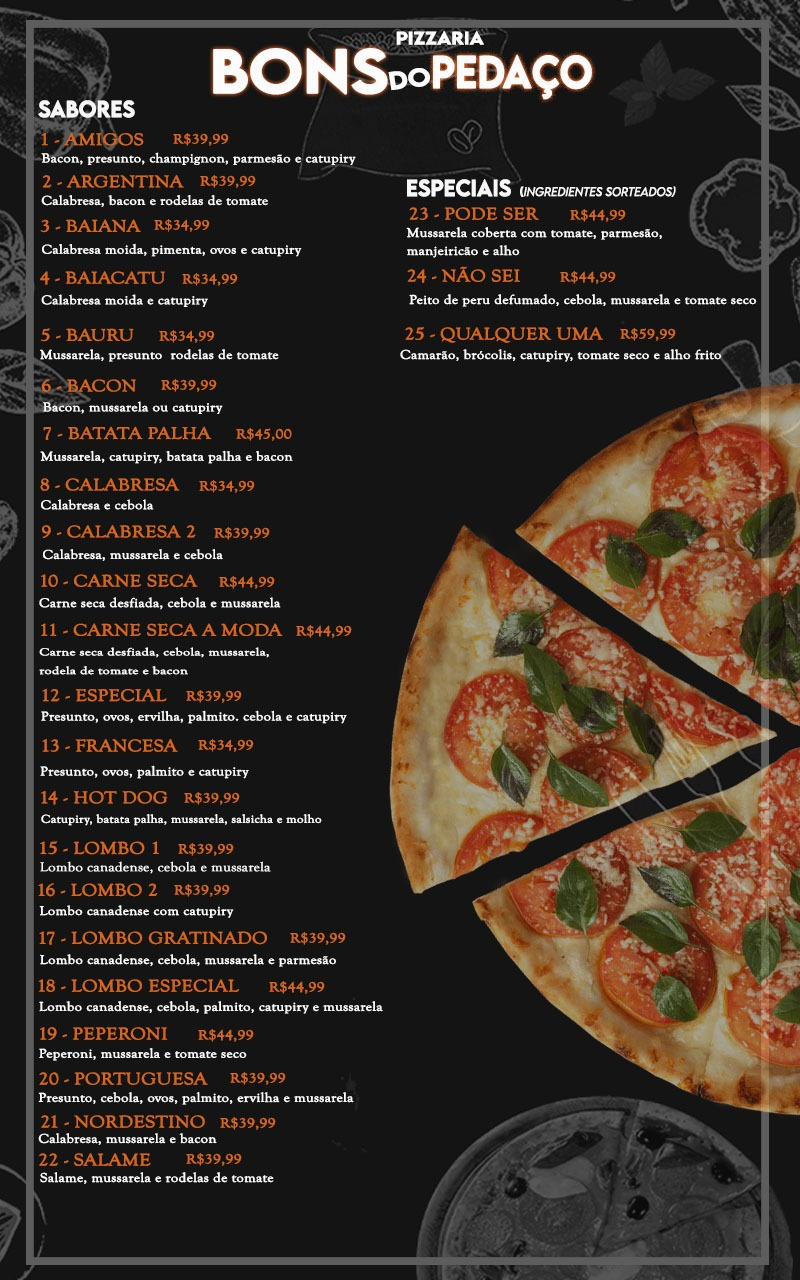
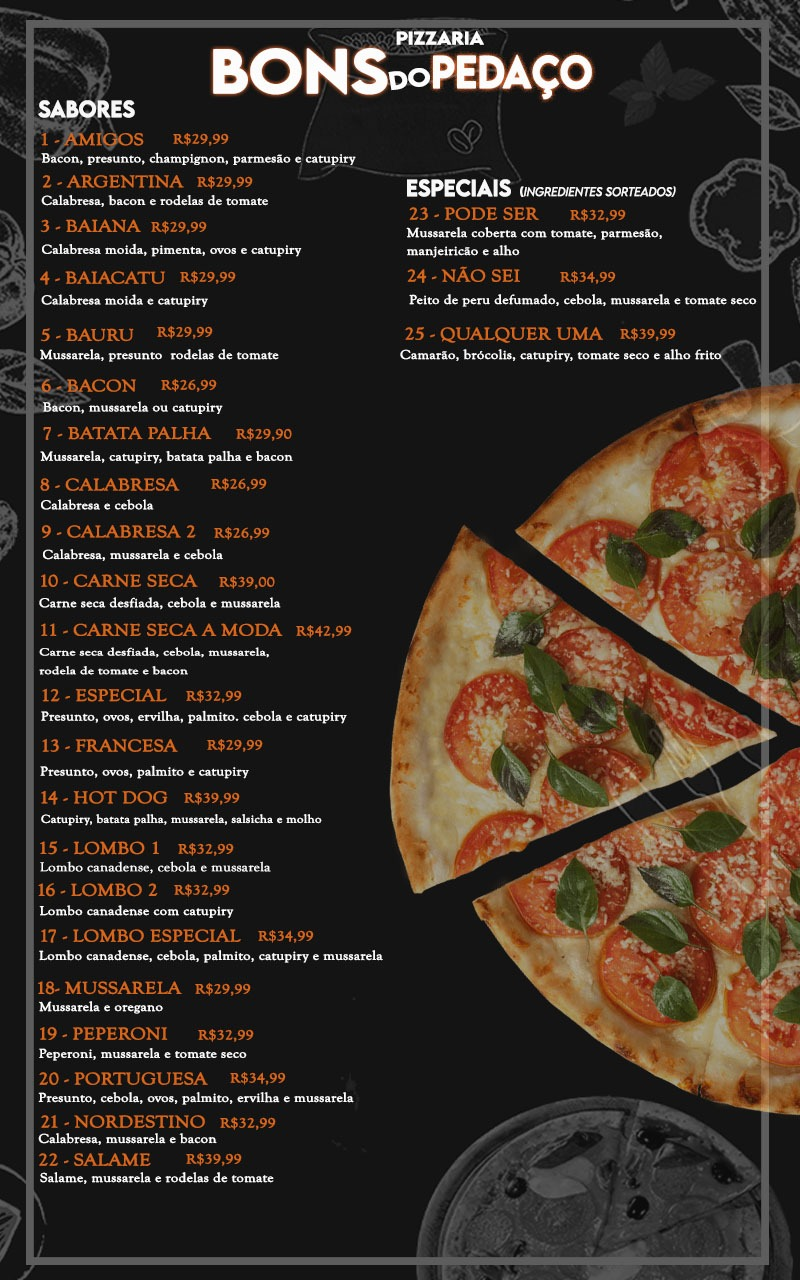
Add exception treatment and menu update

diff --git a/Cardapio.js b/Cardapio.js
@@ -4,81 +4,81 @@
         "Numero"    : 1,
         "Pizza"     : "Amigos",
         "Descricao" : "Bacon, presunto, champignon, parmesão e catupiry",
-        "Preco"     : 39.99
+        "Preco"     : 29.99
     },
     {   
         "Numero"    : 2,
         "Pizza"     : "Argentina",
         "Descricao" : "Calabresa, bacon e rodelas de tomate",
-        "Preco"     : 39.99
+        "Preco"     : 29.99
     },
     {   
         "Numero"    : 3,
         "Pizza"     : "Baiana",
         "Descricao" : "Calabresa moida, pimenta, ovos e catupiry",
-        "Preco"     : 34.99
+        "Preco"     : 29.99
     },
     {   
         "Numero"    : 4,
         "Pizza"     : "Baiacatu",
         "Descricao" : "Calabresa moida e catupiry",
-        "Preco"     : 34.99
+        "Preco"     : 29.99
     },
     {   
         "Numero"    : 5,
         "Pizza"     : "Bauru",
         "Descricao" : "Mussarela, presunto e rodelas de tomate",
-        "Preco"     : 34.99
+        "Preco"     : 29.99
     },
     {   
         "Numero"    : 6,
         "Pizza"     : "Bacon",
         "Descricao" : "Bacon, mussarela ou catupiry",
-        "Preco"     : 39.99
+        "Preco"     : 26.99
     },
     {   
         "Numero"    : 7,
         "Pizza"     : "Batata Palha",
         "Descricao" : "Mussarela, catupiry, bata palha e bacon",
-        "Preco"     : 45.00
+        "Preco"     : 29.99
     },
     {   
         "Numero"    : 8,
         "Pizza"     : "Calabresa",
         "Descricao" : "Calabresa e cebola",
-        "Preco"     : 34.99
+        "Preco"     : 26.99
     },
     {   
         "Numero"    : 9,
         "Pizza"     : "Calabresa 2",
         "Descricao" : "Calabresa, mussarela e cebola",
-        "Preco"     : 39.99
+        "Preco"     : 26.99
     },
     {   
         "Numero"    : 10,
         "Pizza"     : "Carne Seca a Moda",
         "Descricao" : "Carne seca desfiada, cebola, mussarela, rodelas de tomate e bacon",
-        "Preco"     : 44.99
+        "Preco"     : 42.99
         
     },
     {   
         "Numero"    : 11,
         "Pizza"     : "Carne Seca",
         "Descricao" : "Carne seca desfiada, cebola e mussarela",
-        "Preco"     : 44.99
+        "Preco"     : 38.99
         
     },
     {   
         "Numero"    : 12,
         "Pizza"     : "Especial",
         "Descricao" : "Presunto, ovos, ervilha, palmito, cebola e catupiry",
-        "Preco"     : 39.99
+        "Preco"     : 32.99
     },
     {   
         "Numero"    : 13,
         "Pizza"     : "Francesa",
         "Descricao" : "Presunto, ovos, palmito e Catupiry",
-        "Preco"     : 34.99
+        "Preco"     : 29.99
     },
     {   
         "Numero"    : 14,
@@ -90,43 +90,43 @@
         "Numero"    : 15,
         "Pizza"     : "Lombo 1",
         "Descricao" : "Lombo canadense, cebola e mussarela",
-        "Preco"     : 39.99
+        "Preco"     : 32.99
     },
     {   
         "Numero"    : 16,
         "Pizza"     : "Lombo 2",
         "Descricao" : "Lombo canadense com catupiry",
-        "Preco"     : 39.99
+        "Preco"     : 32.99
     },
     {   
         "Numero"    : 17,
-        "Pizza"     : "Lombo Gratinado",
-        "Descricao" : "Lombo canadense, cebola, mussarela e parmessão",
-        "Preco"     : 39.99
+        "Pizza"     : "Lombo Especial",
+        "Descricao" : "Lombo canadense, cebola, palmito, catupiry e mussarela",
+        "Preco"     : 34.99
     },
     {   
         "Numero"    : 18,
-        "Pizza"     : "Lombo Especial",
-        "Descricao" : "Lombo canadense, cebola, palmito, catupiry e mussarela",
-        "Preco"     : 44.99
+        "Pizza"     : "Mussarela",
+        "Descricao" : "Mussarela e orégano",
+        "Preco"     : 29.99
     },
     {   
         "Numero"    : 19,
         "Pizza"     : "Peperone",
         "Descricao" : "Peperone, mussarela e tomate seco",
-        "Preco"     : 44.99
+        "Preco"     : 32.99
     },
     {   
         "Numero"    : 20,
         "Pizza"     : "Portuguesa",
         "Descricao" : "Presunto, cebola, ovos, palmito, ervilha e mussarela",
-        "Preco"     : 39.99
+        "Preco"     : 34.99
     },
     {   
         "Numero"    : 21,
         "Pizza"     : "Nordestino",
         "Descricao" : "Calabresa, mussarela e bacon",
-        "Preco"     : 39.99
+        "Preco"     : 32.99
     },
     {   
         "Numero"    : 22,
@@ -138,18 +138,18 @@
         "Numero"    : 23,
         "Pizza"     : "Pode ser",
         "Descricao" : "Mussarela, coberta com rodelas de tomate, parmesão, manjericão e alho",
-        "Preco"     : 44.99
+        "Preco"     : 32.99
     },
     {   
         "Numero"    : 23,
         "Pizza"     : "Não sei",
         "Descricao" : "Peito de peru defumado, cebola, mussarela e tomate seco", 
-        "Preco"     : 44.99
+        "Preco"     : 34.99
     },
     {   
         "Numero"    : 25,
         "Pizza"     : "Qualquer uma",
         "Descricao" : "Camarão, brócolis, catupiry, tomate seco e alho frito", 
-        "Preco"     : 59.99
+        "Preco"     : 39.99
     }
 ]

diff --git a/app.js b/app.js
@@ -16,7 +16,51 @@ var endtemp;
 
 var conta = [];
 
+function sendmessage(msg){
+    const chatBody = document.querySelector(".scroller");
+    const divUser = document.createElement("div");
+    divUser.className = "me visible";
+    divUser.textContent = chat.value;
+    chatBody.append(divUser);
+    divUser.scrollIntoView();
+    
+
+}
+function respondmessage(msg){
+    const chatBody = document.querySelector(".scroller");
+    const divCpu = document.createElement("div");
+    divCpu.className = "bot visible";
+    divCpu.innerHTML = processmessage(msg);
+    if(divCpu.innerHTML.indexOf('[cardapiodiv]')!=-1){
+        //divCpu.innerHTML+="<div class='photocontainer'> You are watching 5th object out of 100 </div>";
+        divCpu.innerHTML = divCpu.innerHTML.replace("[cardapiodiv]", "");
+        var elem = document.createElement('div');
+        elem.style.cssText = photocss;
+        //elem.className = 'photo';
+        elem.addEventListener("click", function() {
+            window.open('card.jpeg');
+         });
+        divCpu.appendChild(elem);
+    }
+    setTimeout(() => {  
+    chatBody.append(divCpu);
+    divCpu.scrollIntoView();
+    }, 600);
+}
+function saymessage(msg){
+    const chatBody = document.querySelector(".scroller");
+    const divCpu = document.createElement("div");
+    divCpu.className = "bot visible";
+    divCpu.innerHTML = msg;
+    
+    setTimeout(() => {  
+    chatBody.append(divCpu);
+    divCpu.scrollIntoView();
+    }, 600);
+}
+
 function lerCardapio(cb){
+    
     var request = new XMLHttpRequest();
     request.open('GET', './cardapio.js', true);
     request.send(null);
@@ -33,6 +77,7 @@ function lerCardapio(cb){
         }
     }
 }
+
 lerCardapio(function(object){
     cardapio=JSON.parse(object);
 });
@@ -54,11 +99,15 @@ function checkstrindex(string, array){
     return -1;
 }
 function checkcardapio(string){
+    try{
     for(i=0;i<cardapio.length;i++){
         if(string.indexOf(cardapio[i].Pizza.toLowerCase())!=-1){
             return i;
         }
     }
+}catch{
+    saymessage("Não foi possível acessar o cardápio. <br> Para que o chat funcione corretamente ele deve estar hospedado em um servidor ou utilizando programas como o XAMPP.");
+}
     return -1;
 }
 function getPizzaName(id){
@@ -116,48 +165,7 @@ function listaConta(){
 
 
 
-function sendmessage(msg){
-    const chatBody = document.querySelector(".scroller");
-    const divUser = document.createElement("div");
-    divUser.className = "me visible";
-    divUser.textContent = chat.value;
-    chatBody.append(divUser);
-    divUser.scrollIntoView();
-    
 
-}
-function respondmessage(msg){
-    const chatBody = document.querySelector(".scroller");
-    const divCpu = document.createElement("div");
-    divCpu.className = "bot visible";
-    divCpu.innerHTML = processmessage(msg);
-    if(divCpu.innerHTML.indexOf('[cardapiodiv]')!=-1){
-        //divCpu.innerHTML+="<div class='photocontainer'> You are watching 5th object out of 100 </div>";
-        divCpu.innerHTML = divCpu.innerHTML.replace("[cardapiodiv]", "");
-        var elem = document.createElement('div');
-        elem.style.cssText = photocss;
-        //elem.className = 'photo';
-        elem.addEventListener("click", function() {
-            window.open('card.jpeg');
-         });
-        divCpu.appendChild(elem);
-    }
-    setTimeout(() => {  
-    chatBody.append(divCpu);
-    divCpu.scrollIntoView();
-    }, 600);
-}
-function saymessage(msg){
-    const chatBody = document.querySelector(".scroller");
-    const divCpu = document.createElement("div");
-    divCpu.className = "bot visible";
-    divCpu.innerHTML = msg;
-    
-    setTimeout(() => {  
-    chatBody.append(divCpu);
-    divCpu.scrollIntoView();
-    }, 600);
-}
 function processmessage(msg){
     const saudacoes = ['oi', 'oie', 'ola', 'olá', 'bom dia', 'boa tarde', 'boa noite'];
     const pedido = ['fazer um pedido', 'pedir'];
